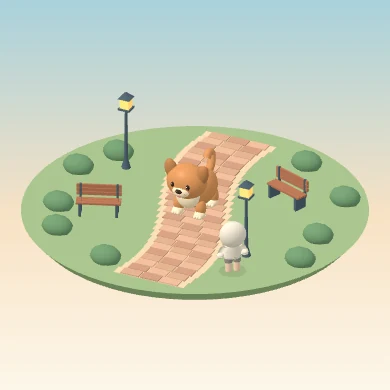
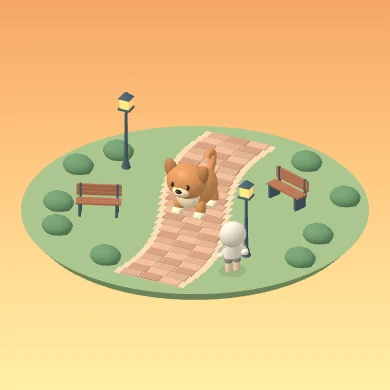
Warm the neighborhood walk background with an orange-to-yellow gradient

diff --git a/sw.js b/sw.js
@@ -1,10 +1,10 @@
-const CACHE='annyeong-v80';
+const CACHE='annyeong-v81';
 const APP_FILES=[
-  './','./manifest.webmanifest?v=7','./app/style.css?v=80','./app/main.js?v=80','./app/photos.js?v=39',
+  './','./manifest.webmanifest?v=7','./app/style.css?v=81','./app/main.js?v=81','./app/photos.js?v=39',
   './app/paw-cursor-pink.png','./app/fonts/nanum-pen-script.woff2','./app/treats.js','./app/treat-meat.png','./app/treat-fish.png','./app/friends.js?v=80','./app/account.js?v=80','./app/icons.svg?v=21','./app/data.js','./app/data.js?v=18','./app/avatar.js?v=35','./app/scene.js?v=80','./app/vendor/three.module.min.js',
   './app/owner-model.js?v=43','./app/owner-colors.js','./app/models/hood_character_cylindrical_legs.glb','./app/vendor/GLTFLoader.js','./app/vendor/BufferGeometryUtils.js',
   './app/welcome-pets/dog.webp','./app/welcome-pets/cat.webp','./app/welcome-pets/hamster.webp','./app/welcome-pets/parrot.webp','./app/welcome-pets/lizard.webp',
-  './app/coast.js','./app/theme-catalog.js','./app/extra-themes.js','./app/walk-preview.webp','./app/clouds-preview.webp','./app/stars-preview.webp','./app/coast-preview.webp','./app/food-intro-cake.webp','./app/food-game.js?v=77','./app/items.js','./app/item-names.js',
+  './app/coast.js','./app/theme-catalog.js','./app/theme-catalog.js?v=81','./app/extra-themes.js','./app/walk-preview.webp?v=81','./app/clouds-preview.webp','./app/stars-preview.webp','./app/coast-preview.webp','./app/food-intro-cake.webp','./app/food-game.js?v=77','./app/items.js','./app/item-names.js',
   './app/item-ball.png','./app/item-bath.png','./app/item-vacuum.png','./app/item-tube.png','./app/item-bag.png','./app/item-gift-0.png','./app/item-gift-1.png','./app/item-gift-2.png',
   './app/vendor/jquery.min.js','./app/icon-drawing-192.png','./app/icon-heart-32.png','./app/icon-heart-192.png','./app/icon-heart-512.png'
 ];

diff --git a/app/main.js b/app/main.js
@@ -1,4 +1,4 @@
-import {themes,themeId,purchasedThemes} from './theme-catalog.js';
+import {themes,themeId,purchasedThemes} from './theme-catalog.js?v=81';
 import {createFoodGame} from './food-game.js?v=77';
 import {ownerColors as cleanOwnerColors} from './owner-colors.js';
 import {itemShape} from './item-names.js';
@@ -423,7 +423,7 @@ let economyBusy=false;
 const themeCards=Object.entries(themes).filter(([,theme]) => theme.price>0).map(([id,theme]) => {
   const card=byId('theme-card-template').content.firstElementChild.cloneNode(true);
   const preview=card.querySelector('img');
-  preview.src='./app/'+id+'-preview.webp';
+  preview.src='./app/'+(theme.preview || id+'-preview.webp');
   preview.alt=theme.alt;
   card.querySelector('h2').textContent=theme.name;
   const buy=card.querySelector('button');

diff --git a/app/style.css b/app/style.css
@@ -210,7 +210,7 @@ section > .page-back { margin-bottom: 20px; }
 #home[data-background="coast"] #home-scene {
   background: linear-gradient(to bottom, #7f81be 0%, #d69bb5 23%, #ffd497 41%, #bdaabf 42%, #83aebd 66%, #d0e3dc 100%);
 }
-#home[data-background="walk"] #home-scene { background: linear-gradient(#a9d1db,#f8e2c5 55%,#fcf7e9); }
+#home[data-background="walk"] #home-scene { background: linear-gradient(180deg,#f5a669 0%,#ffc982 43%,#fff0a6 100%); }
 #home[data-background="clouds"] #home-scene { background: linear-gradient(#88b9ea,#ced8fa 58%,#f8efff); }
 #home[data-background="stars"] #home-scene {
   background: radial-gradient(ellipse at 65% 25%, #6c69a577, transparent 55%), linear-gradient(#151f49,#414974 62%,#69638c);

diff --git a/app/theme-catalog.js b/app/theme-catalog.js
@@ -1,7 +1,7 @@
 export const themes={
   meadow:{name:'초원',price:0},
   coast:{name:'노을 바다',price:50,alt:'노을 아래 야자수가 있는 모래섬'},
-  walk:{name:'동네 산책길',price:50,alt:'가로등과 벤치가 있는 벽돌 산책로'},
+  walk:{name:'동네 산책길',price:50,preview:'walk-preview.webp?v=81',alt:'가로등과 벤치가 있는 벽돌 산책로'},
   clouds:{name:'구름 위',price:50,alt:'하늘 위에 떠 있는 폭신한 구름'},
   stars:{name:'별빛 초원',price:50,alt:'별과 달이 빛나는 밤의 초원'}
 };

diff --git a/index.php b/index.php
@@ -8,10 +8,10 @@
   <link rel="manifest" href="./manifest.webmanifest?v=7">
   <link rel="icon" type="image/png" sizes="32x32" href="./app/icon-heart-32.png">
   <link rel="apple-touch-icon" href="./app/icon-drawing-192.png">
-  <link rel="stylesheet" href="./app/style.css?v=80">
+  <link rel="stylesheet" href="./app/style.css?v=81">
   <title>안녕</title>
   <script defer src="./app/vendor/jquery.min.js"></script>
-  <script type="module" src="./app/main.js?v=80"></script>
+  <script type="module" src="./app/main.js?v=81"></script>
 </head>
 <body>
 <audio id="meadow-music" src="./app/meadow-music.m4a" preload="none" loop></audio>
